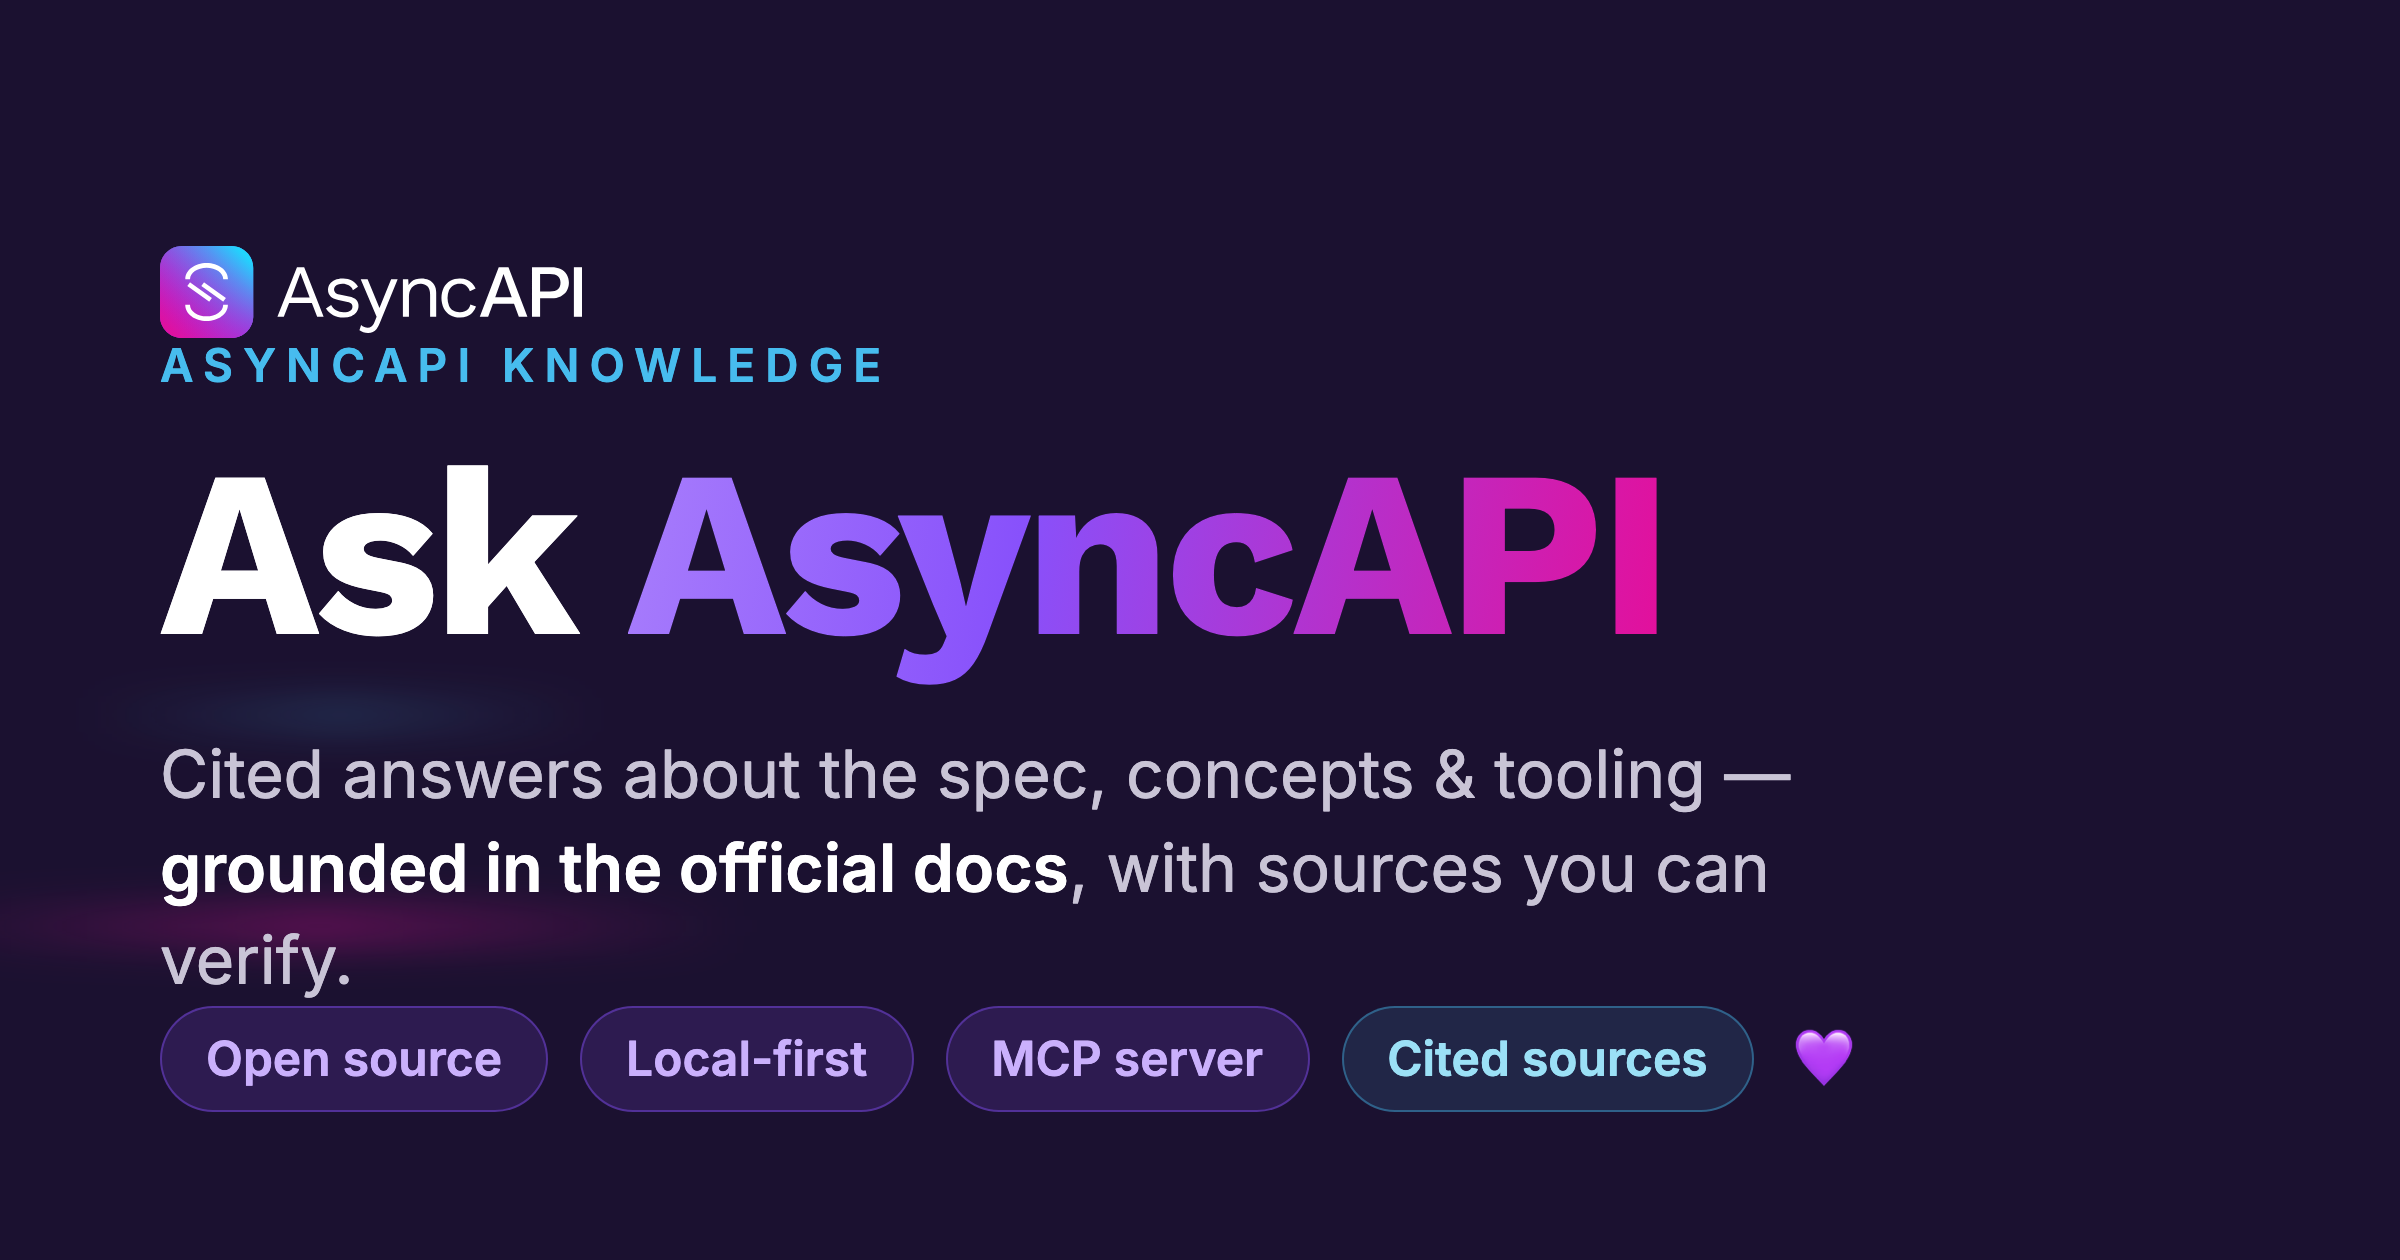
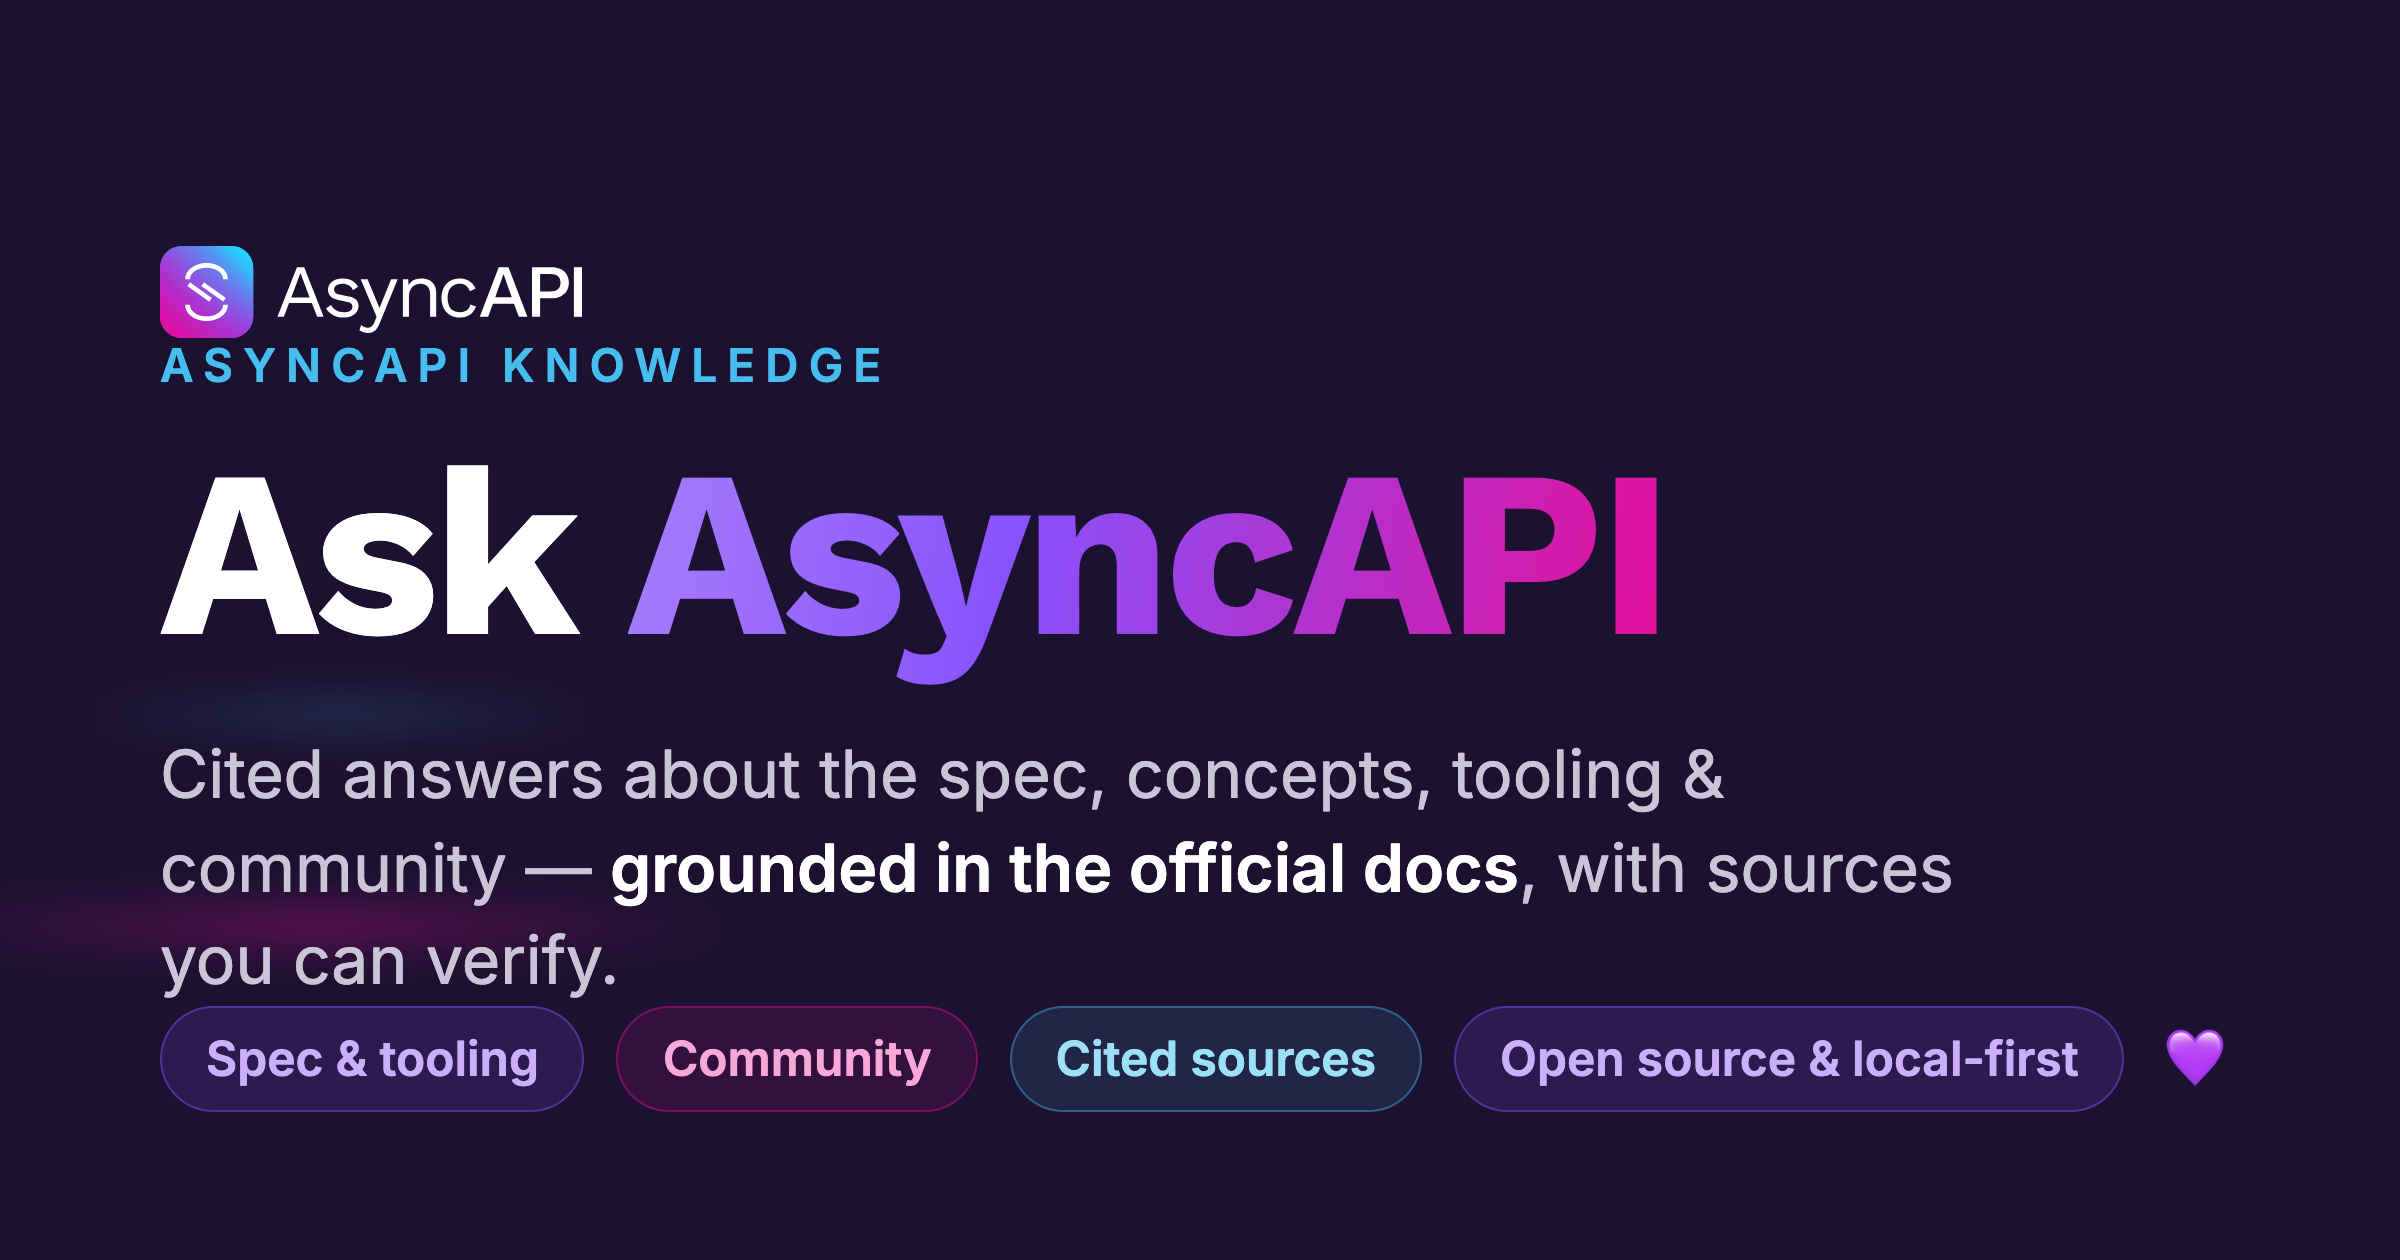
feat(chat): surface community across the UI, OG image, and example questions
- Add "community" to the hero lede and the meta/OG/Twitter descriptions.
- Swap the Protobuf/Avro example chip for a community one ("How do I get
  involved?") to keep three suggestions.
- Regenerate the OG image with a community-aware subtitle and a dedicated
  Community chip.
- Link PyPI in the "Run it yourself" card.

Changed region(s): [[0.0938, 0.7429, 0.9375, 0.8976], [0.0625, 0.65, 0.8125, 0.7119], [0.5938, 0.5881, 0.75, 0.65]]

diff --git a/chat/index.html b/chat/index.html
@@ -4,7 +4,7 @@
   <meta charset="UTF-8" />
   <meta name="viewport" content="width=device-width, initial-scale=1.0, viewport-fit=cover" />
   <title>AsyncAPI Knowledge — ask the docs</title>
-  <meta name="description" content="Ask questions about AsyncAPI — spec, concepts, tooling and docs — and get cited answers from asyncapi.com/docs and the AsyncAPI 3.1.0 JSON Schema." />
+  <meta name="description" content="Ask questions about AsyncAPI — spec, concepts, tooling, docs and community — and get cited answers from asyncapi.com/docs and the AsyncAPI 3.1.0 JSON Schema." />
   <link rel="canonical" href="https://askasyncapi.brainfart.dev/" />
 
   <!-- Open Graph / LinkedIn / Facebook -->
@@ -12,16 +12,16 @@
   <meta property="og:site_name" content="Ask AsyncAPI" />
   <meta property="og:url" content="https://askasyncapi.brainfart.dev/" />
   <meta property="og:title" content="Ask AsyncAPI — cited answers from the docs" />
-  <meta property="og:description" content="Cited answers about the AsyncAPI spec, concepts and tooling — grounded in the official docs, with sources you can verify. Open source and local-first." />
+  <meta property="og:description" content="Cited answers about the AsyncAPI spec, concepts, tooling and community — grounded in the official docs, with sources you can verify. Open source and local-first." />
   <meta property="og:image" content="https://askasyncapi.brainfart.dev/og.png" />
   <meta property="og:image:width" content="2400" />
   <meta property="og:image:height" content="1260" />
-  <meta property="og:image:alt" content="Ask AsyncAPI — cited answers about the spec, concepts and tooling, grounded in the official docs." />
+  <meta property="og:image:alt" content="Ask AsyncAPI — cited answers about the spec, concepts, tooling and community, grounded in the official docs." />
 
   <!-- Twitter / X -->
   <meta name="twitter:card" content="summary_large_image" />
   <meta name="twitter:title" content="Ask AsyncAPI — cited answers from the docs" />
-  <meta name="twitter:description" content="Cited answers about the AsyncAPI spec, concepts and tooling — grounded in the official docs. Open source and local-first." />
+  <meta name="twitter:description" content="Cited answers about the AsyncAPI spec, concepts, tooling and community — grounded in the official docs. Open source and local-first." />
   <meta name="twitter:image" content="https://askasyncapi.brainfart.dev/og.png" />
 
   <link rel="preload" href="fonts/inter-v20-latin-regular.woff2" as="font" type="font/woff2" crossorigin>
@@ -48,8 +48,8 @@
     <section class="hero reveal" data-reveal="2">
       <h1 class="hero__title">Ask <span class="hero__gradient">AsyncAPI</span></h1>
       <p class="hero__lede">
-        Answers about the AsyncAPI spec, concepts, and tooling — grounded in the
-        official docs, with sources you can verify.
+        Answers about the AsyncAPI spec, concepts, tooling, and community — grounded
+        in the official docs, with sources you can verify.
       </p>
     </section>
 
@@ -126,7 +126,7 @@ claude mcp add asyncapi-knowledge -- uvx asyncapi-knowledge-mcp==0.0.4
           <div class="empty-state__chips">
             <button class="chip chip--suggest" type="button" data-suggest="What is AsyncAPI and what problems does it solve?">What is AsyncAPI?</button>
             <button class="chip chip--suggest" type="button" data-suggest="How do I provide protocol-specific information in AsyncAPI, for example Kafka or MQTT bindings?">Protocol-specific info (bindings)</button>
-            <button class="chip chip--suggest" type="button" data-suggest="Can I use Protobuf or Avro schemas in an AsyncAPI document?">Can I use Protobuf or Avro?</button>
+            <button class="chip chip--suggest" type="button" data-suggest="How can I get involved in the AsyncAPI community and start contributing?">How do I get involved?</button>
           </div>
         </div>
       </div>
@@ -195,7 +195,7 @@ claude mcp add asyncapi-knowledge -- uvx asyncapi-knowledge-mcp==0.0.4
         </div>
         <div class="arch-card">
           <span class="arch-card__step">Run it yourself</span>
-          <h3 class="arch-card__name">PyPI · <code>uvx asyncapi-knowledge-mcp</code></h3>
+          <h3 class="arch-card__name"><a href="https://pypi.org/project/asyncapi-knowledge-mcp/" target="_blank" rel="noopener">PyPI</a> · <code>uvx asyncapi-knowledge-mcp</code></h3>
           <p class="arch-card__text">
             <code>opencrane pack</code> bundles the prebuilt index into a pip-installable MCP server.
             Runs entirely on your machine over stdio — no keys, no remote calls.